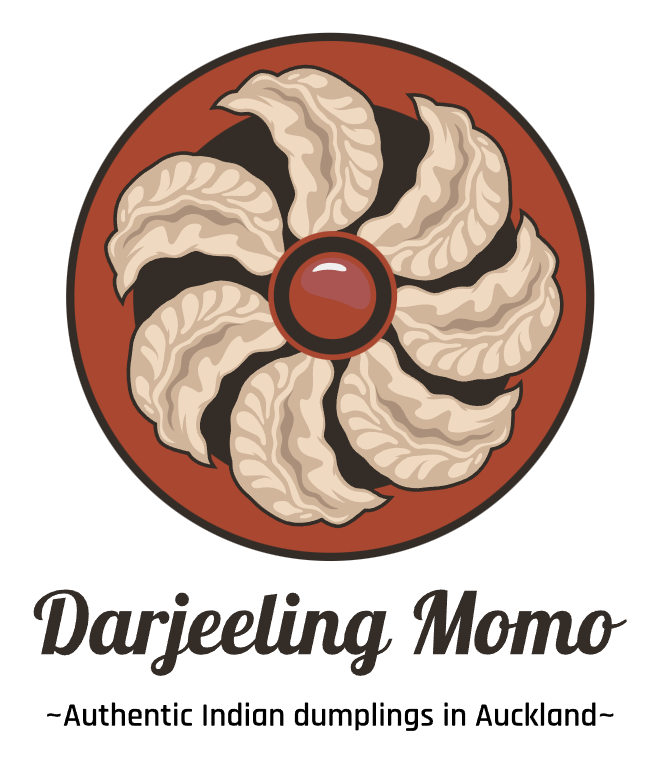
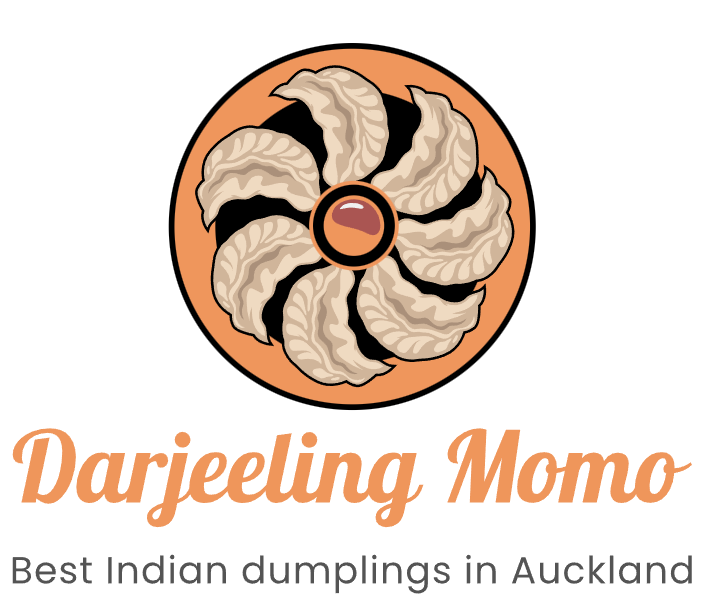
primary color update orange

diff --git a/src/components/NavigationBar/NavigationBar.css b/src/components/NavigationBar/NavigationBar.css
@@ -6,7 +6,7 @@
 }
 
 .navbar .logo{
-    width: 250px;
+    width: 200px;
 }
 
 .navbar-menu{
@@ -26,8 +26,8 @@
 .navbar button {
     background: transparent;
     font-size: 16px;
-    border: 1px solid #b83f26;
-    color: #b83f26;
+    border: 1px solid #ff914d;
+    color: #ff914d;
     padding: 10px 30px;
     border-radius: 50px;
     cursor: pointer;
@@ -35,13 +35,13 @@
 }
 
 .navbar button:hover{
-    background-color: #b83f26;
+    background-color: #ff914d;
     color: white;
 }
 
 .navbar .active{
     padding-bottom:2px;
-    border-bottom : 2px solid #b83f26
+    border-bottom : 2px solid #ff914d
 }
 
 .navbar li{
@@ -56,7 +56,7 @@
     position: absolute;
     min-width: 10px;
     min-height: 10px;
-    background-color: #b83f26;
+    background-color: #ff914d;
     border-radius: 5px;
     top: -8px;
     right: -8px;
@@ -78,7 +78,7 @@
 }
 
 .nav-profile-dropdown li:hover{
-    color: #b83f26;
+    color: #ff914d;
 }
 
 .navbar-profile:hover .nav-profile-dropdown{
@@ -88,7 +88,7 @@
     background-color: white;
     padding: 12px 25px;
     border-radius: 4px;
-    border: 1px solid #b83f26;
+    border: 1px solid #ff914d;
     outline: 2px solid #eaeaea;
     list-style: none;
 }

diff --git a/src/components/ExploreMenu/ExploreMenu.css b/src/components/ExploreMenu/ExploreMenu.css
@@ -11,7 +11,7 @@
 
 .explore-menu-text{
     max-width: 60%;
-    columns: #b83f26;
+    columns: #ff914d;
 }
 
 .explore-menu-list{
@@ -38,7 +38,7 @@
 
 .explore-menu-list-item p{
     margin-top: 10px;
-    color:#b83f26;
+    color:#ff914d;
     font-size: max(1.4vw, 16px);
     cursor: pointer;
 }
@@ -52,7 +52,7 @@
 }
 
 .explore-menu-list-item .active{
-    border: 4px solid #b83f26;
+    border: 4px solid #ff914d;
     padding: 2px;
 }
 

diff --git a/src/components/LoginPopup/LoginPopup.css b/src/components/LoginPopup/LoginPopup.css
@@ -51,7 +51,7 @@
     padding: 10px;
     border-radius: 4px;
     color: white;
-    background-color: #b83f26;
+    background-color: #ff914d;
     font-size: 15px;
     cursor: pointer;
 }
@@ -68,7 +68,7 @@ margin-top: 2px;
 }
 
 .login-popup p span{
-    color:#b83f26;
+    color:#ff914d;
     font-weight: 500;
     cursor: pointer;
 }

diff --git a/src/pages/MyOrders/MyOrders.css b/src/pages/MyOrders/MyOrders.css
@@ -17,7 +17,7 @@
     font-size: 14px;
     padding: 10px 20px;
     color: #454545;
-    border: 1px solid #b83f26;
+    border: 1px solid #ff914d;
 }
 
 .my-orders-order img{
@@ -25,7 +25,7 @@
 }
 
 .my-orders-order p span{
-    color: #b83f26;
+    color: #ff914d;
 }
 
 .my-orders-order p b{

diff --git a/src/pages/Verify/Verify.css b/src/pages/Verify/Verify.css
@@ -8,7 +8,7 @@
     height: 100px;
     place-self: center;
     border: 5px solid #aeaeae;
-    border-top-color: #b83f26;
+    border-top-color: #ff914d;
     border-radius: 50%;
     animation: rotate 1s infinite;
 }

diff --git a/src/pages/Cart/Cart.css b/src/pages/Cart/Cart.css
@@ -56,7 +56,7 @@
 .cart-total button{
     border: none;
     color: white;
-    background-color: #b83f26;
+    background-color: #ff914d;
     width: max(15vw,200px);
     padding: 12px 0px;
     border-radius: 4px;

diff --git a/src/pages/PlaceOrder/PlaceOrder.css b/src/pages/PlaceOrder/PlaceOrder.css
@@ -25,7 +25,7 @@
     padding: 10px;
     border: 1px solid #c5c5c5;
     border-radius: 4px;
-    outline-color: #b83f26;
+    outline-color: #ff914d;
 }
 
 .place-order-left .multi-fields{

diff --git a/src/components/Footer/Footer.css b/src/components/Footer/Footer.css
@@ -1,6 +1,6 @@
 .footer{
     color: white;
-    background-color: #b83f26;
+    background-color: #ff914d;
     display: flex;
     flex-direction: column;
     align-items: center;

diff --git a/src/components/Header/Header.css b/src/components/Header/Header.css
@@ -36,7 +36,7 @@
 
 .header-contents button{
     border:none;
-    color: #b83f26;
+    color: #ff914d;
     font-weight: 500;
     padding: 1vw 2.3vw;
     background-color: white;
